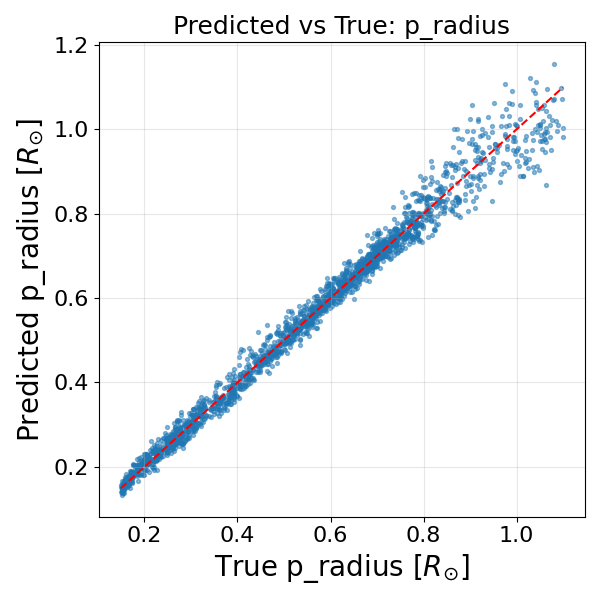
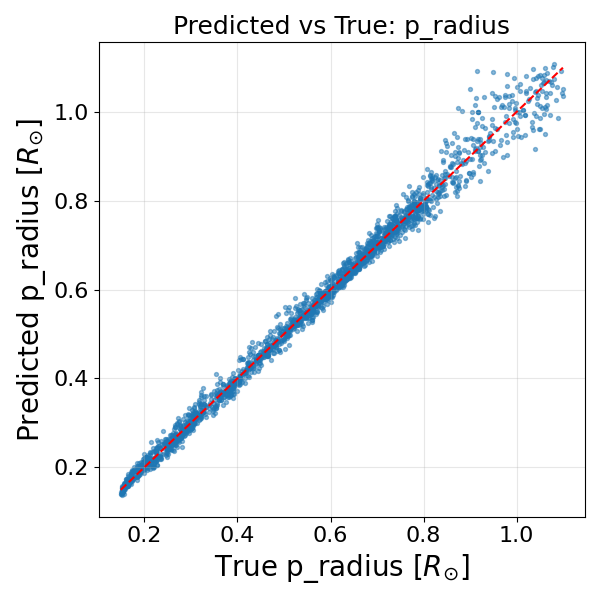
uniform noise instead of gaussian noise

diff --git a/ANN/bANN_utils.py b/ANN/bANN_utils.py
@@ -1,7 +1,3 @@
-# ==========================
-# bANN_utils.py
-# ==========================
-
 import os
 import numpy as np
 import torch
@@ -11,9 +7,6 @@ from torch.utils.data import Dataset
 
 import matplotlib.pyplot as plt
 
-# ==========================
-# LABELS
-# ==========================
 
 label_names = [
     "p_teff",
@@ -24,15 +17,8 @@ label_names = [
     "s_radius"
 ]
 
-# ==========================
-# CONSTANTS
-# ==========================
-
 EXPECTED_FEATURES = 1947
 
-# ==========================
-# MASKING
-# ==========================
 
 def build_wavelength_mask(wl):
 
@@ -56,17 +42,13 @@ def enforce_masking(X, wavelength):
 
     expected_masked = np.sum(mask)
 
-    # --------------------------------
     # already masked
-    # --------------------------------
 
     if X.shape[1] == expected_masked:
 
         return X, mask
 
-    # --------------------------------
     # full spectrum
-    # --------------------------------
 
     if X.shape[1] == expected_full:
 
@@ -122,16 +104,30 @@ def preprocess_spectrum_matrix(
 # NOISE
 # ==========================
 
+# def apply_additive_noise(
+#     X,
+#     snr=30
+# ):
+
+#     sigma = 1.0 / snr
+
+#     noise = np.random.normal(
+#         loc=0.0,
+#         scale=sigma,
+#         size=X.shape
+#     )
+
+#     return X + noise
+
 def apply_additive_noise(
     X,
     snr=30
 ):
+    amplitude = 1.0 / snr
 
-    sigma = 1.0 / snr
-
-    noise = np.random.normal(
-        loc=0.0,
-        scale=sigma,
+    noise = np.random.uniform(
+        low=-amplitude,
+        high=amplitude,
         size=X.shape
     )
 
@@ -190,16 +186,6 @@ class StellarANN(nn.Module):
     ):
 
         super().__init__()
-
-        # ===================================
-        # BIGGER NETWORK
-        # ===================================
-        #
-        # 1947 -> 512 -> 256 -> 128 -> 6
-        #
-        # NO DROPOUT
-        #
-        # ===================================
 
         self.net = nn.Sequential(
 
